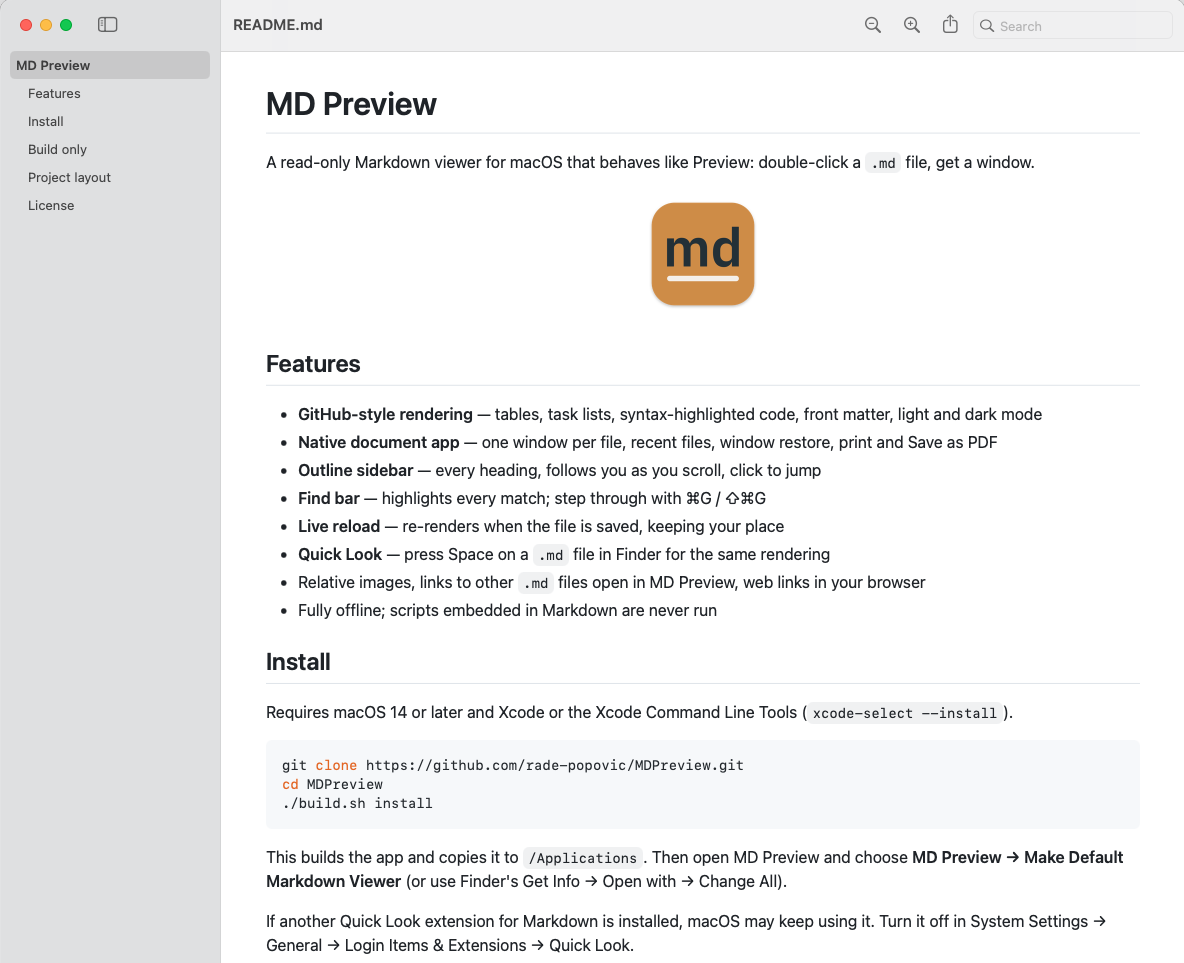
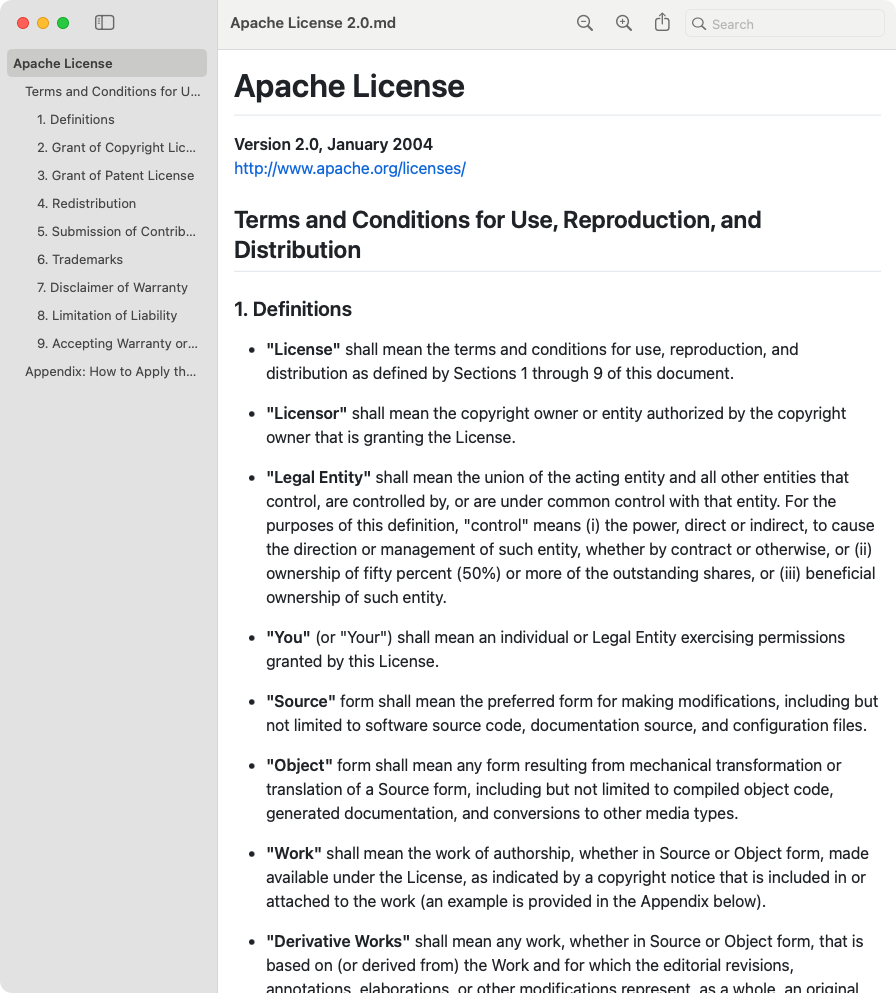
Replace README screenshot with the Apache License in MD Preview

diff --git a/README.md b/README.md
@@ -4,7 +4,7 @@
 
 A read-only Markdown viewer for macOS that behaves like Preview: double-click a `.md` file, get a window.
 
-![MD Preview showing its own README with the outline sidebar](docs/screenshot.png)
+![MD Preview showing the Apache License with the outline sidebar](docs/screenshot.png)
 
 ## Features
 
